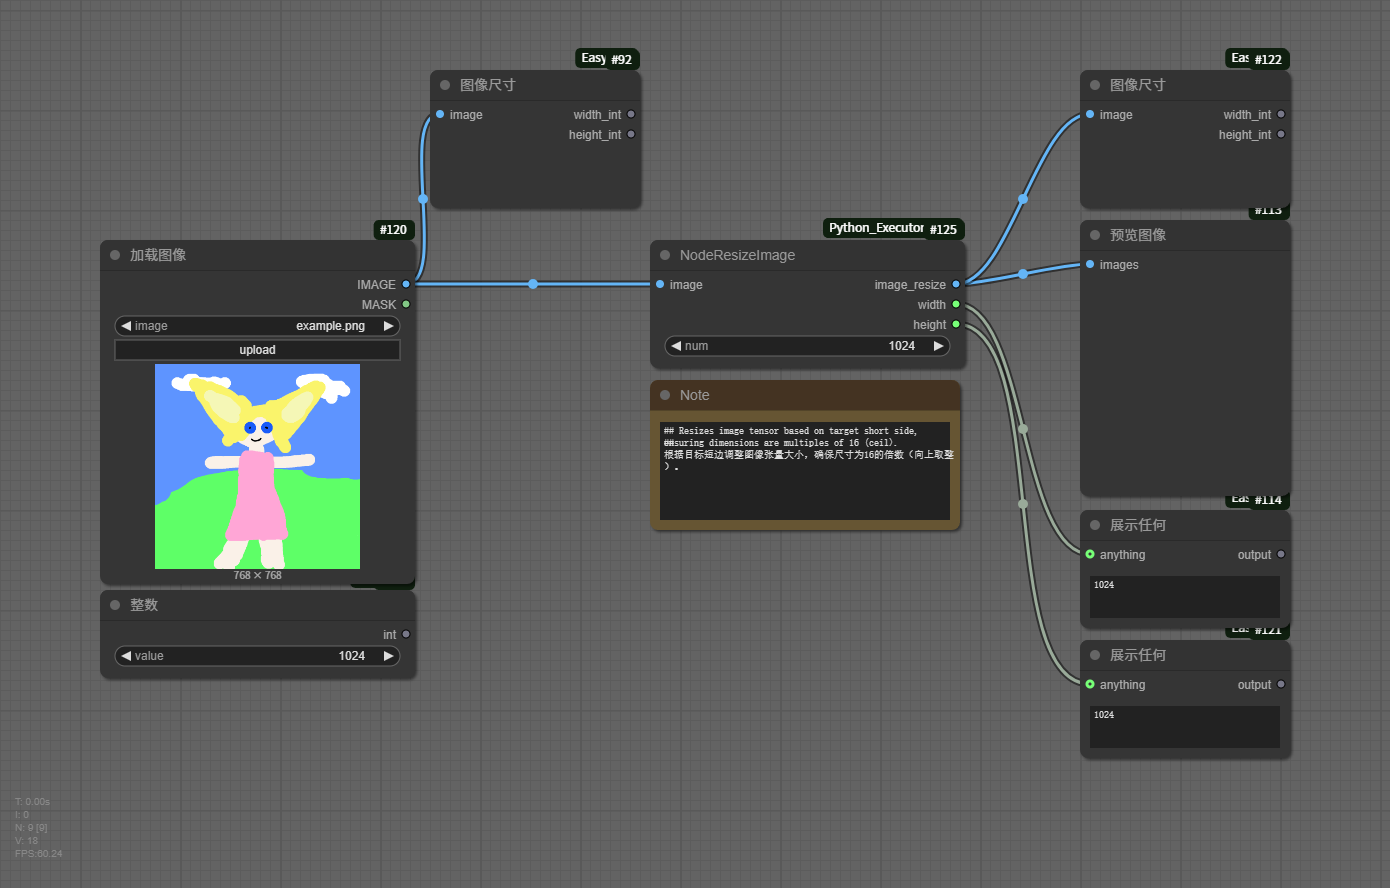
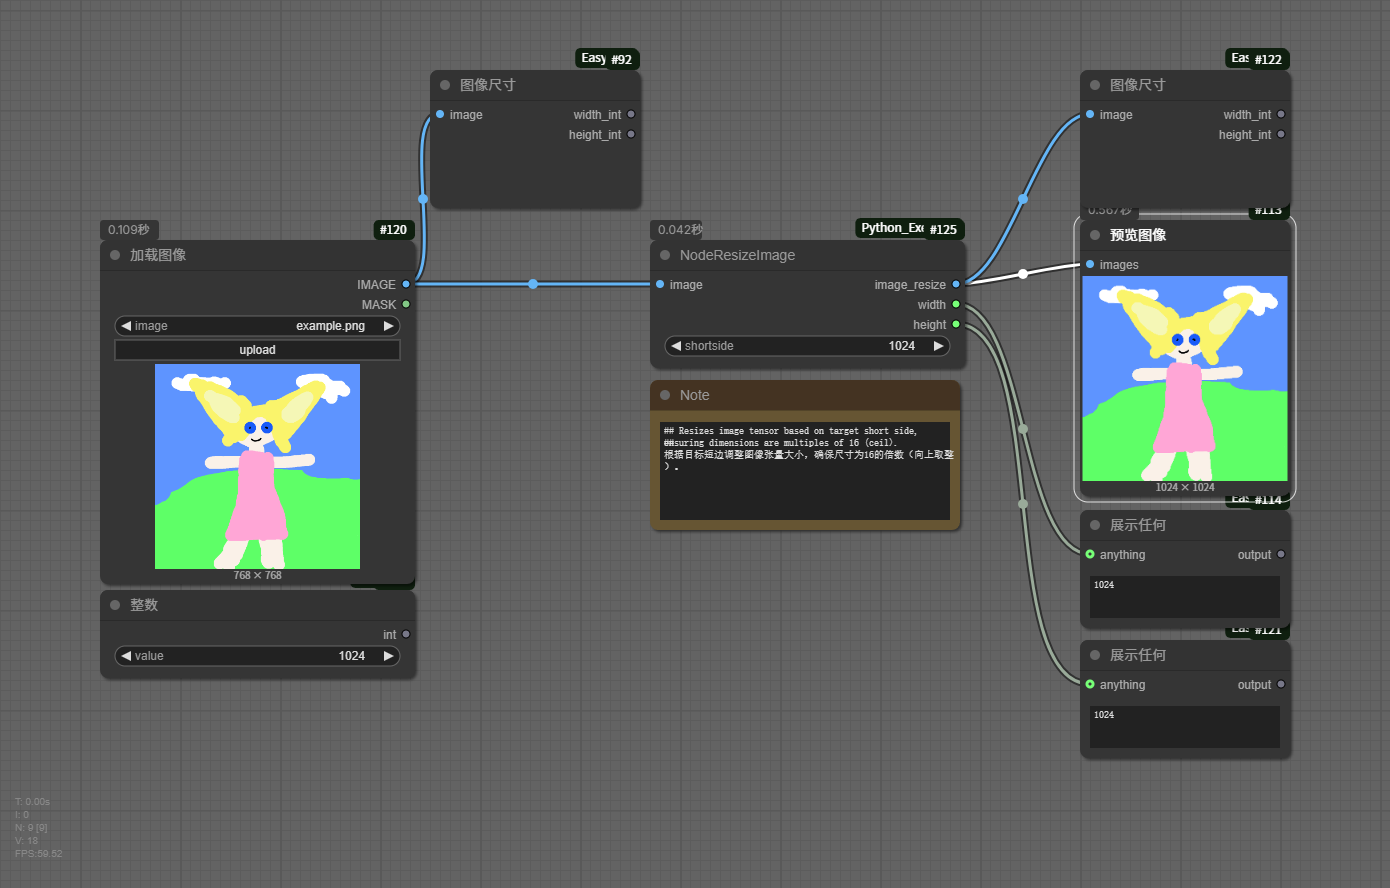
Optimize code

diff --git a/node_resize_image.py b/node_resize_image.py
@@ -1,9 +1,12 @@
-# -*- coding: utf-8 -*-
+"""
+Resizes the image based on the target short side (`num`), maintaining aspect ratio, with final width and height both rounded up (ceil) to the nearest multiple of 16.
+根据目标短边 (`num`) 调整图像大小，保持宽高比，最终宽高均向上取整为 16 的倍数。
+"""
 
 import torch
-import numpy as np
-from PIL import Image
 import math
+from PIL import Image
+import numpy as np
 
 class NodeResizeImage:
     # A node to resize an image based on a target short side ('num'), ensuring final dimensions are multiples of 16 (using ceil). / 根据目标短边 ('num') 调整图像大小的节点，确保最终尺寸是16的倍数（向上取整）。
@@ -12,14 +15,8 @@ class NodeResizeImage:
         # Define node inputs / 定义节点输入
         return {
             "required": {
-                "image": ("IMAGE",), # Input image tensor / 输入图像张量
-                # 'num' defines the base for the target short side, Default 1024, min 560, max 9600, step 16 / 'num' 定义目标短边的基准值, 默认 1024, 最小 560, 最大 9600, 步长 16
-                "num": ("INT", {
-                    "default": 1024,
-                    "min": 560,
-                    "max": 9600,
-                    "step": 16
-                }),
+                "image": ("IMAGE",),
+                "shortside": ("INT", {"default": 1024, "min": 560, "max": 9600, "step": 16}),
             }
         }
 
@@ -29,103 +26,39 @@ class NodeResizeImage:
     FUNCTION = "resize_image"
     CATEGORY = "Image/Transform"
 
-    def _tensor_to_pil(self, img_tensor: torch.Tensor) -> Image.Image:
+    def _tensor_to_pil(self, img_tensor):
         # Convert ComfyUI IMAGE tensor to PIL Image / 将 ComfyUI IMAGE 张量转换为 PIL 图像。
-        if img_tensor is None or img_tensor.dim() != 4 or img_tensor.shape[0] == 0:
-            raise ValueError("Invalid image tensor provided for PIL conversion.")
         img_np = img_tensor[0].cpu().numpy() * 255.0
-        img_np = np.clip(img_np, 0, 255).astype(np.uint8)
-        if img_np.shape[2] == 1:
-             return Image.fromarray(img_np[:, :, 0], 'L').convert('RGB')
-        elif img_np.shape[2] == 3:
-             return Image.fromarray(img_np, 'RGB')
-        else:
-            if img_np.shape[2] == 4:
-                print("[Resize Image Node] Warning: Input tensor has 4 channels (RGBA?), converting to RGB.")
-                return Image.fromarray(img_np[:, :, :3], 'RGB')
-            else:
-                print(f"[Resize Image Node] Warning: Input tensor has {img_np.shape[2]} channels, attempting conversion to RGB.")
-                try:
-                    return Image.fromarray(img_np).convert('RGB')
-                except Exception as e:
-                    raise ValueError(f"Could not convert tensor with shape {img_np.shape} to RGB PIL Image: {e}")
+        img_np = np.clip(img_np, 0, 255).astype(np.uint8)[:, :, :3]
+        return Image.fromarray(img_np, 'RGB')
 
-
-    def _pil_to_tensor(self, img_pil: Image.Image) -> torch.Tensor:
+    def _pil_to_tensor(self, img_pil):
         # Convert PIL Image to ComfyUI IMAGE tensor / 将 PIL 图像转换为 ComfyUI IMAGE 张量。
-        if img_pil.mode != 'RGB':
-            img_pil = img_pil.convert('RGB')
         img_np = np.array(img_pil).astype(np.float32) / 255.0
-        img_tensor = torch.from_numpy(img_np).unsqueeze(0)
-        return img_tensor
+        return torch.from_numpy(img_np).unsqueeze(0)
 
-    def resize_image(self, image: torch.Tensor, num: int):
-        # Resizes the image based on 'num' as the target short side, ensuring dimensions are multiples of 16 using ceil. / 根据 'num' 作为目标短边调整图像大小，确保尺寸是16的倍数（向上取整）。
-        try:
-            img_pil = self._tensor_to_pil(image)
-        except ValueError as e:
-            print(f"[Resize Image Node] Error converting input tensor: {e}")
-            h, w = image.shape[1:3] if image is not None and image.dim()==4 else (0,0)
-            return (image, w, h)
-
+    def resize_image(self, image, shortside):
+        # Resizes the image based on 'shortside' as the target short side, ensuring dimensions are multiples of 16 using ceil. / 根据 'shortside' 作为目标短边调整图像大小，确保尺寸是16的倍数（向上取整）。
+        img_pil = self._tensor_to_pil(image)
         original_w, original_h = img_pil.size
 
-        num = max(560, min(9600, num))
+        # Determine target short side (ceil to multiple of 16, min 16) / 计算目标短边（确保16的倍数）
+        num_clamped = max(560, min(shortside, 9600))
+        target_short = math.ceil(num_clamped / 16) * 16
 
-        # 1. Determine target short side (ceil to multiple of 16, min 16) / 1. 确定目标短边长度 (向上取整到16的倍数, 且至少为16)
-        target_short_side_base = max(16, num)
-        target_short_side = math.ceil(target_short_side_base / 16.0) * 16
-        target_short_side = max(16, target_short_side)
-
-        # 2. Calculate scale and target long side (ceil to multiple of 16, min 16) / 2. 计算缩放比例和目标长边长度 (向上取整到16的倍数, 且至少为16)
-        if original_w == 0 or original_h == 0:
-            print(f"[Resize Image Node] Error: Original image dimensions are zero ({original_w}x{original_h}). Cannot resize.")
-            h, w = image.shape[1:3] if image is not None and image.dim()==4 else (0,0)
-            return (image, w, h)
-
-        if original_w < original_h:
-            if original_w == 0: scale = 0
-            else: scale = target_short_side / original_w
-            target_long_side_initial = original_h * scale
-            final_w = target_short_side
-            final_h = max(16, math.ceil(target_long_side_initial / 16.0) * 16)
-        elif original_h < original_w:
-             if original_h == 0: scale = 0
-             else: scale = target_short_side / original_h
-             target_long_side_initial = original_w * scale
-             final_h = target_short_side
-             final_w = max(16, math.ceil(target_long_side_initial / 16.0) * 16)
+        # Calculate scale and target long side / 计算最终尺寸
+        if original_w <= original_h:
+            scale = target_short / original_w
+            final_h = math.ceil(original_h * scale / 16) * 16
+            final_w = target_short
         else:
-             final_w = target_short_side
-             final_h = target_short_side
+            scale = target_short / original_h
+            final_w = math.ceil(original_w * scale / 16) * 16
+            final_h = target_short
 
-
-        print(f"[Resize Image Node] Original: {original_w}x{original_h}, Input 'num': {num}, Target Short Base: {target_short_side_base}, Target Short Side (x16 ceil): {target_short_side}, Final Target: {final_w}x{final_h}")
-
-        # 3. Resize the image using LANCZOS filter / 3. 使用 LANCZOS 滤镜调整图像大小
-        final_w, final_h = int(final_w), int(final_h)
-
-        if final_w <= 0 or final_h <= 0:
-             print(f"[Resize Image Node] Error: Calculated final dimensions are invalid ({final_w}x{final_h}). Returning original.")
-             return (image, original_w, original_h)
-
-        try:
-            if (original_w, original_h) == (final_w, final_h):
-                resized_img_pil = img_pil
-                print(f"[Resize Image Node] Input dimensions already match target. Skipping resize.")
-            else:
-                resized_img_pil = img_pil.resize((final_w, final_h), Image.Resampling.LANCZOS)
-        except Exception as e:
-            print(f"[Resize Image Node] Error during PIL resize: {e}")
-            return (image, original_w, original_h)
-
-        # 4. Convert resized PIL image back to tensor / 4. 将调整大小后的 PIL 图像转换回张量
-        try:
-            resized_image_tensor = self._pil_to_tensor(resized_img_pil)
-        except Exception as e:
-             print(f"[Resize Image Node] Error converting resized PIL image back to tensor: {e}")
-             return(image, original_w, original_h)
-
+        # Resize the image using LANCZOS filter / 使用 LANCZOS 滤镜调整图像大小
+        if (original_w, original_h) != (final_w, final_h):
+            img_pil = img_pil.resize((final_w, final_h), Image.Resampling.LANCZOS)
 
         # Return resized image tensor and final dimensions / 返回调整大小后的图像张量和最终尺寸
-        return (resized_image_tensor, final_w, final_h)
+        return (self._pil_to_tensor(img_pil), final_w, final_h)

diff --git a/README.md b/README.md
@@ -115,18 +115,18 @@ This node includes a node for custom Python input within ComfyUI, along with sev
 ---
 ### 2. NodeResizeImage (`NodeResizeImage`)
 
-*   **描述**: 根据目标短边 (`num`) 调整图像大小，保持宽高比，最终宽高均向上取整为 16 的倍数。
+*   **描述**: 根据目标短边 (`shortside`) 调整图像大小，保持宽高比，最终宽高均向上取整为 16 的倍数。
 *   **分类**: `Image/Transform`
 *   **输入**:
     *   `image` (IMAGE): 待调整图像。
-    *   `num` (INT): 目标短边基准值 (默认 1024, 范围 560-9600)。
+    *   `shortside` (INT): 目标短边基准值 (默认 1024, 范围 560-9600)。
 *   **输出**:
     *   `image_resize` (IMAGE): 调整后的图像。
     *   `width` (INT): 最终宽度 (16的倍数)。
     *   `height` (INT): 最终高度 (16的倍数)。
 *   **使用范例**:
     *   **目标**: 将 `800x600` 图像的短边目标设为 `768` 进行调整。
-    *   **设置**: 输入 `800x600` 图像, `num` 设为 `768`。
+    *   **设置**: 输入 `800x600` 图像, `shortside` 设为 `768`。
     *   **过程**:
         1. 短边 600, 长边 800。
         2. 目标短边向上取整到 16 倍数 -> `768`。
